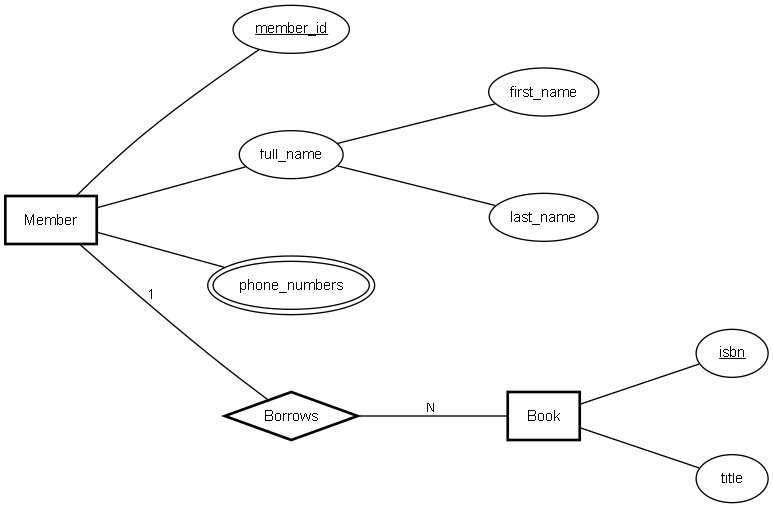
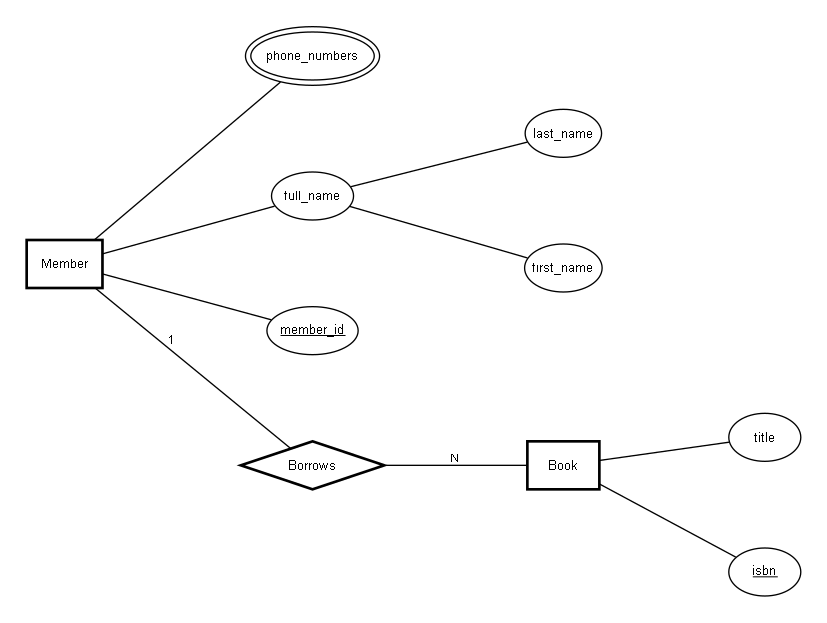
feat: improved png layout

diff --git a/src/renderer.py b/src/renderer.py
@@ -6,69 +6,97 @@ from src.models import ERDiagram
 def render_er_diagram(
     diagram: ERDiagram, output_path: str = "output/er_diagram", engine: str = "dot"
 ) -> str:
-    """Renders an ERDiagram model into a PNG image using Graphviz Chen notation."""
+    """
+    Renders an ERDiagram model into a clean PNG using Chen ER notation.
+    Uses Graphviz 'dot' with invisible clusters to guarantee obstacle avoidance
+    and prevent relationship edges from slicing through attribute ovals.
+    """
     out_dir = os.path.dirname(output_path)
     if out_dir:
         os.makedirs(out_dir, exist_ok=True)
 
     dot = graphviz.Graph(
         name="ER_Diagram",
-        engine=engine,
+        engine="dot",  # 'dot' guarantees geometric obstacle avoidance
         format="png",
         graph_attr={
-            "splines": "spline",
+            "splines": "spline",       # Smooth curves routing around node obstacles
+            "rankdir": "LR",           # Left-to-right academic Chen ER layout
+            "nodesep": "0.9",          # Spacing between nodes on the same rank
+            "ranksep": "1.3",          # Spacing between ranks
+            "compound": "true",
             "overlap": "false",
-            "rankdir": "LR",
-            "nodesep": "0.8",
-            "ranksep": "1.0",
         },
-        node_attr={"fontname": "Helvetica", "fontsize": "11"},
-        edge_attr={"fontname": "Helvetica", "fontsize": "10", "len": "1.5"},
+        node_attr={"fontname": "Helvetica", "fontsize": "10"},
+        edge_attr={"fontname": "Helvetica", "fontsize": "9"},
     )
 
+    # 1. Enclose each Entity and its Attributes in an Invisible Cluster
+    # This quarantines attributes so relationship edges cannot pass through them.
     for entity in diagram.entities:
-        entity_node_id = f"ent_{entity.name}"
-        entity_kwargs = {"shape": "box", "style": "bold"}
-        if entity.is_weak:
-            entity_kwargs["peripheries"] = "2"
+        cluster_name = f"cluster_{entity.name}"
+        with dot.subgraph(name=cluster_name) as sub:
+            sub.attr(style="invis")
 
-        dot.node(entity_node_id, label=entity.name, **entity_kwargs)
+            entity_node_id = f"ent_{entity.name}"
+            entity_kwargs = {"shape": "box", "style": "bold", "margin": "0.15,0.08"}
+            if entity.is_weak:
+                entity_kwargs["peripheries"] = "2"
 
-        for attr in entity.attributes:
-            attr_node_id = f"attr_{entity.name}_{attr.name}"
-            node_kwargs = {"shape": "ellipse"}
-            if attr.is_multivalued:
-                node_kwargs["peripheries"] = "2"
-            if attr.is_primary_key:
-                dot.node(attr_node_id, label=f"<<u>{attr.name}</u>>", **node_kwargs)
-            else:
-                dot.node(attr_node_id, label=attr.name, **node_kwargs)
+            sub.node(entity_node_id, label=entity.name, **entity_kwargs)
 
-            dot.edge(entity_node_id, attr_node_id)
-            if attr.composite:
-                for sub_attr in attr.composite:
-                    sub_node_id = f"sub_{entity.name}_{attr.name}_{sub_attr}"
-                    dot.node(sub_node_id, label=sub_attr, shape="ellipse")
-                    dot.edge(attr_node_id, sub_node_id)
+            for attr in entity.attributes:
+                attr_node_id = f"attr_{entity.name}_{attr.name}"
+                node_kwargs = {"shape": "ellipse", "margin": "0.08,0.04"}
+                if attr.is_multivalued:
+                    node_kwargs["peripheries"] = "2"
 
+                if attr.is_primary_key:
+                    sub.node(attr_node_id, label=f"<<u>{attr.name}</u>>", **node_kwargs)
+                else:
+                    sub.node(attr_node_id, label=attr.name, **node_kwargs)
+
+                # Connect attribute to entity inside cluster
+                sub.edge(entity_node_id, attr_node_id)
+
+                # Composite sub-attributes
+                if attr.composite:
+                    for sub_attr in attr.composite:
+                        sub_node_id = f"sub_{entity.name}_{attr.name}_{sub_attr}"
+                        sub.node(
+                            sub_node_id, label=sub_attr, shape="ellipse", margin="0.05,0.02"
+                        )
+                        sub.edge(attr_node_id, sub_node_id)
+
+    # 2. Render Relationships Outside the Clusters
     for idx, rel in enumerate(diagram.relationships):
         rel_node_id = f"rel_{idx}_{rel.name}"
-        rel_kwargs = {"shape": "diamond", "style": "bold"}
+        rel_kwargs = {"shape": "diamond", "style": "bold", "margin": "0.15,0.08"}
         if rel.is_identifying:
             rel_kwargs["peripheries"] = "2"
 
         dot.node(rel_node_id, label=rel.name, **rel_kwargs)
 
-        # Loop over all N participating entities
-        for part in rel.participants:
+        # Alternating flow (ent1 -> rel -> ent2, ent3) forces 'dot'
+        # to place the relationship diamond in the center between the entities.
+        for p_idx, part in enumerate(rel.participants):
             ent_node_id = f"ent_{part.entity}"
             edge_color = "black:black" if part.participation.lower() == "total" else "black"
-            dot.edge(
-                ent_node_id,
-                rel_node_id,
-                label=f" {part.cardinality} ",
-                color=edge_color
-            )
-            
-    rendered_file = dot.render(output_path, cleanup=True)
-    return rendered_file
+            card_label = f" {part.cardinality} "
+
+            if p_idx == 0:
+                dot.edge(
+                    ent_node_id,
+                    rel_node_id,
+                    label=card_label,
+                    color=edge_color,
+                )
+            else:
+                dot.edge(
+                    rel_node_id,
+                    ent_node_id,
+                    label=card_label,
+                    color=edge_color,
+                )
+
+    return dot.render(output_path, cleanup=True)
